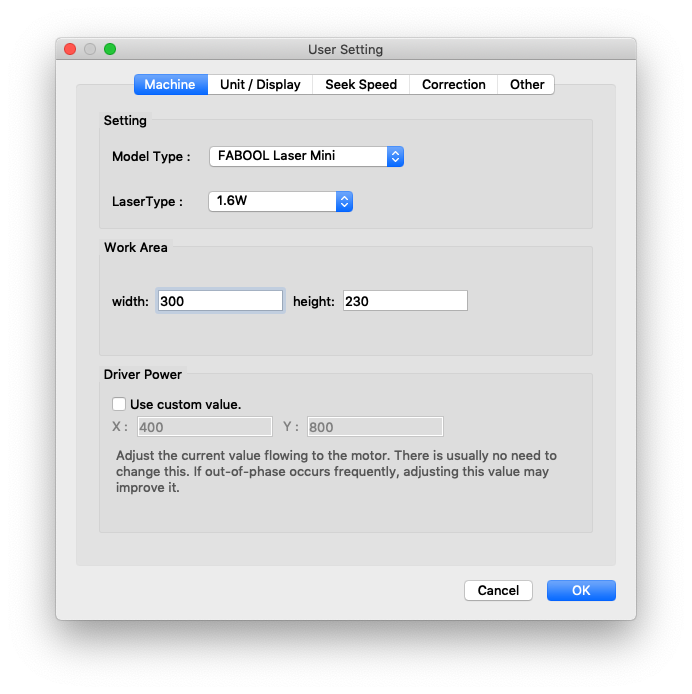
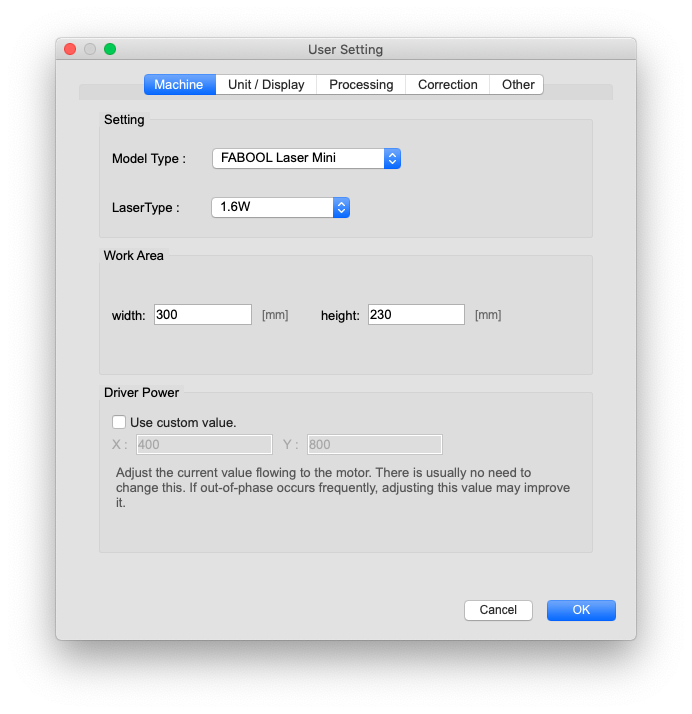
Update for version 1.2.0

diff --git a/manual/releasenote.md b/manual/releasenote.md
@@ -9,7 +9,9 @@
 <th align="left">Installer</th>
 </tr>
 </thead>
-<tbody><tr>
+<tbody>
+
+<tr>
 <td align="left">2019.5.29</td>
 <td align="left">v1.0.4</td>
 <td align="left">Official release</td>
@@ -18,6 +20,7 @@
 /
 <a href="http://download.smartdiys.com/smartdiyscreator/offline_installer/v1.0.4/SmartDIYsCreator_offline_installer_win-v1.0.4.exe">win</td>
 </tr>
+
 <tr>
 <td align="left">2019.6.4</td>
 <td align="left">v1.0.5</td>
@@ -27,6 +30,7 @@
 /
 <a href="http://download.smartdiys.com/smartdiyscreator/offline_installer/v1.0.5/SmartDIYsCreator_offline_installer_win-v1.0.5.exe">win</td>
 </tr>
+
 <tr>
 <td align="left">2019.6.28</td>
 <td align="left">v1.0.6</td>
@@ -36,6 +40,7 @@
 /
 <a href="http://download.smartdiys.com/smartdiyscreator/offline_installer/v1.0.6/SmartDIYsCreator_offline_installer_win-v1.0.6.exe">win</td>
 </tr>
+
 <tr>
 <td align="left">2019.8.22</td>
 <td align="left">v1.0.7</td>
@@ -45,6 +50,7 @@
 /
 <a href="http://download.smartdiys.com/smartdiyscreator/offline_installer/v1.0.7/SmartDIYsCreator_offline_installer_win-v1.0.7.exe">win</td>
 </tr>
+
 <tr>
 <td align="left">2019.11.9</td>
 <td align="left">v1.1.0</td>
@@ -54,6 +60,7 @@
 /
 <a href="http://download.smartdiys.com/smartdiyscreator/offline_installer/v1.1.0/SmartDIYsCreator_offline_installer_win-v1.1.0.exe">win</td>
 </tr>
+
 <tr>
 <td align="left">2019.11.12</td>
 <td align="left">v1.1.1</td>
@@ -63,6 +70,7 @@
 /
 <a href="http://download.smartdiys.com/smartdiyscreator/offline_installer/v1.1.1/SmartDIYsCreator_offline_installer_win-v1.1.1.exe">win</td>
 </tr>
+
 <tr>
 <td align="left">2019.12.03</td>
 <td align="left">v1.1.2</td>
@@ -72,6 +80,7 @@
 /
 <a href="http://download.smartdiys.com/smartdiyscreator/offline_installer/v1.1.2/SmartDIYsCreator_offline_installer_win-v1.1.2.exe">win</td>
 </tr>
+
 <tr>
 <td align="left">2019.12.17</td>
 <td align="left">v1.1.3</td>
@@ -81,6 +90,7 @@
 /
 <a href="http://download.smartdiys.com/smartdiyscreator/offline_installer/v1.1.3/SmartDIYsCreator_offline_installer_win-v1.1.3.exe">win</td>
 </tr>
+
 <tr>
 <td align="left">2019.12.24</td>
 <td align="left">v1.1.4</td>
@@ -90,6 +100,7 @@
 /
 <a href="http://download.smartdiys.com/smartdiyscreator/offline_installer/v1.1.4/SmartDIYsCreator_offline_installer_win-v1.1.4.exe">win</td>
 </tr>
+
 <tr>
 <td align="left">2020.2.10</td>
 <td align="left">v1.1.5</td>
@@ -99,4 +110,15 @@
 /
 <a href="http://download.smartdiys.com/smartdiyscreator/offline_installer/v1.1.5/SmartDIYsCreator_offline_installer_win-v1.1.5.exe">win</td>
 </tr>
+
+<tr>
+<td align="left">2020.3.12</td>
+<td align="left">v1.2.0</td>
+<td align="left">Update frameworks<br>Support for macOS 10.15 Gatekeeper<br>Add user setting items for iterative processing<br>Add new assets<br>Improvement of UI/UX<br>Modified the small bug</td>
+<td align="left">
+<a href="http://download.smartdiys.com/smartdiyscreator/offline_installer/v1.2.0/SmartDIYsCreator_offline_installer_mac-v1.2.0.dmg">mac</a>
+/
+<a href="http://download.smartdiys.com/smartdiyscreator/offline_installer/v1.2.0/SmartDIYsCreator_offline_installer_win-v1.2.0.exe">win</td>
+</tr>
+
 </tbody></table>

diff --git a/manual/usersetting.md b/manual/usersetting.md
@@ -39,7 +39,7 @@ If the division number is 1, only the basic grid is displayed.
 Specify the line width at preview. By setting the actual laser width, you can get close to the impression of the final product.
 
 ---------------
-## Seek speed
+## Processing
 
 <!-- <p align="center">
 <img alt="SmartScreen" src="./images/usersetting/settings_3.png" style="width:70%">
@@ -52,10 +52,13 @@ Default mode: Set the seek speed to the specified value.
 Quality mode: Set the seek speed to the processing speed.  
 ※ During raster processing and hatching processing (during vector painting processing), operations are always performed according to the Quality mode.
 
-
 ### Seek speed (during maintenance)
 You can set the moving speed of the laser head for position check and range check.
 
+### Iterative processing (vector stroke)
+If this setting is enabled, the processing order during cutting will be affected.  
+Example: When there are multiple pieces for a single vector item (i.e., a "◯" and a "△" as part of one item), and "Times" is set as 2 or more, the machine will process like items together.  
+[Enable]: ◯ > ◯ > △ > △  |  [Disable]: ◯ > △ > ◯ > △
 
 ---------------
 ## Correction
